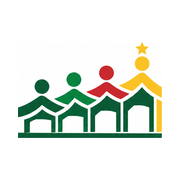
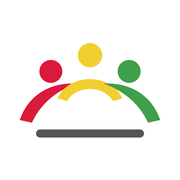
V2

Changed region(s): [[0.0833, 0.2222, 0.9167, 0.7778], [0.4167, 0.2222, 0.5833, 0.3889]]

diff --git a/tests/Feature/Publique/LogoTest.php b/tests/Feature/Publique/LogoTest.php
@@ -43,9 +43,10 @@ class LogoTest extends TestCase
 
         $accueil = $this->get('/')->assertOk();
 
+        // Pied de page sur fond foncé : version blanche du logo, sans cadre blanc.
         preg_match('/<footer.*?<\/footer>/s', $accueil->getContent(), $pied);
-        $this->assertStringContainsString($logo, $pied[0]);
-        $accueil->assertSee('srcset=', false);
+        $this->assertStringContainsString(e(ImagesPlateforme::url('logoHorizontalBlanc')), $pied[0]);
+        $this->assertStringNotContainsString('bg-white px-2 py-1.5', $pied[0]);
         $this->get('/connexion')->assertOk()->assertSee($logo, false);
         $this->assertStringContainsString('images/og-raaga.png', $accueil->getContent());
         $this->assertStringContainsString('rel="manifest"', $accueil->getContent());
@@ -72,11 +73,10 @@ class LogoTest extends TestCase
 
     public function test_les_fichiers_du_logo_sont_servis(): void
     {
-        foreach (['logoHorizontal', 'logoSymbole', 'logoSymboleSimplifie'] as $champ) {
-            $this->get(ImagesPlateforme::url($champ))->assertOk()->assertHeader('Content-Type', 'image/png');
+        // Nouveau logo (02/11/2026) : quatre SVG fournis avec le code, servis même base vide.
+        foreach (['logoHorizontal', 'logoHorizontalBlanc', 'logoSymbole', 'logoSymboleSimplifie'] as $champ) {
+            $this->get(ImagesPlateforme::url($champ))->assertOk()->assertHeader('Content-Type', 'image/svg+xml');
         }
-        // Pas de version blanche fournie : pas d'adresse, et le pied de page pose le logo sur fond blanc.
-        $this->assertNull(ImagesPlateforme::url('logoHorizontalBlanc'));
         $this->get('/plateforme/images/inconnu')->assertNotFound();
 
         $this->get(route('manifeste'))->assertOk()->assertJsonPath('name', 'Raaga · Participation populaire')
@@ -100,7 +100,10 @@ class LogoTest extends TestCase
         $apres = ImagesPlateforme::url('logoHorizontal');
         $this->assertNotSame($avant, $apres);
         $this->get($apres)->assertOk()->assertHeader('Content-Type', 'image/svg+xml');
-        $this->get('/')->assertSee(e($apres), false);
+        // Thème « lumière » (clair) : logo horizontal sur la carte de connexion.
+        $this->flushSession();
+        $this->app['auth']->forgetGuards();
+        $this->get('/connexion')->assertSee(e($apres), false);
     }
 
     public function test_aucun_symbole_unicode_ne_sert_d_icone_dans_les_pages_publiques(): void

diff --git a/app/Support/ImagesPlateforme.php b/app/Support/ImagesPlateforme.php
@@ -14,19 +14,19 @@ use Illuminate\Support\Facades\Storage;
 final class ImagesPlateforme
 {
     /**
-     * Fichiers fournis (valeur initiale). Le logo n'existe pour l'instant qu'en PNG : version 2x
-     * (et 1x pour le srcset). TODO: remplacer par les SVG vectorisés dès qu'ils sont fournis.
-     * Pas de version blanche fournie : null (le pied de page pose alors le logo sur un fond blanc).
+     * Fichiers fournis (valeur initiale). Logo Raaga en SVG (nouveau logo du 02/11/2026) : horizontal,
+     * horizontal blanc (pied de page sur fond foncé), symbole et icône (favicon). Les PNG gardent une
+     * version 2x et 1x pour le srcset.
      *
      * @var array<string, array{0: ?string, 1: ?string}> champ => [fichier 2x (ou SVG), fichier 1x]
      */
     public const DEFAUTS = [
         // Armoiries officielles du Burkina Faso, versionnées avec le code : affichées même si la base est vidée.
         'armoiries' => ['armoiries.png', null],
-        'logoHorizontal' => ['images/logo/raaga-logo-horizontal-96.png', 'images/logo/raaga-logo-horizontal-48.png'],
-        'logoHorizontalBlanc' => [null, null],
-        'logoSymbole' => ['images/logo/raaga-symbole-64.png', 'images/logo/raaga-symbole-32.png'],
-        'logoSymboleSimplifie' => ['images/logo/raaga-symbole-64.png', 'images/logo/raaga-symbole-32.png'],
+        'logoHorizontal' => ['images/logo/raaga-logo-horizontal.svg', null],
+        'logoHorizontalBlanc' => ['images/logo/raaga-logo-horizontal-blanc.svg', null],
+        'logoSymbole' => ['images/logo/raaga-symbole.svg', null],
+        'logoSymboleSimplifie' => ['images/logo/raaga-icone-favicon.svg', null],
     ];
 
     public static function existe(string $champ): bool

diff --git a/app/Console/Commands/VerifierProduction.php b/app/Console/Commands/VerifierProduction.php
@@ -86,9 +86,11 @@ class VerifierProduction extends Command
             $avertissements[] = 'Variable manquante : RAAGA_CLE_PORTIQUES (interface de vérification des cartes pour les portiques fermée : toute demande est refusée).';
         }
 
-        // Carte d'identification : armoiries et logo par défaut trop petits pour l'impression (un fichier déposé n'est pas contrôlé ici).
+        // Carte d'identification : armoiries et logo par défaut trop petits pour l'impression (un fichier déposé n'est pas contrôlé
+        // ici, un SVG non plus : vectoriel, net à toute taille).
         foreach (self::IMAGES_CARTE as $champ => $libelle) {
             $chemin = ImagesPlateforme::deposee($champ) ? null : ImagesPlateforme::chemin($champ);
+            $chemin = $chemin && str_ends_with(strtolower($chemin), '.svg') ? null : $chemin;
             $hauteur = $chemin && is_file($chemin) ? (getimagesize($chemin)[1] ?? 0) : null;
             if ($hauteur !== null && $hauteur < self::HAUTEUR_IMPRESSION) {
                 $avertissements[] = ucfirst($libelle).' par défaut en basse résolution ('.$hauteur.' px de haut, '.self::HAUTEUR_IMPRESSION.' attendus pour l’impression de la carte), déposer la version officielle dans « Paramètres de la plateforme », section Identité.';

diff --git a/tests/Feature/VerrousProductionTest.php b/tests/Feature/VerrousProductionTest.php
@@ -122,11 +122,10 @@ class VerrousProductionTest extends TestCase
         config(['raaga.demo' => false, ...self::COMPTES]);
         $this->operateurReel();
 
-        // Rien de déposé : armoiries fournies (998 px de haut) acceptées, logo fourni (96 px) signalé.
+        // Rien de déposé : armoiries fournies (998 px de haut) et logo fourni en SVG (vectoriel, depuis le 02/11/2026) acceptés.
         $this->artisan('raaga:verifier-production')->assertSuccessful()
-            ->expectsOutputToContain('AVERTISSEMENT : Logo par défaut en basse résolution (96 px de haut, 600 attendus')
-            ->doesntExpectOutputToContain('Armoiries par défaut en basse résolution')
-            ->expectsOutputToContain('Aucun point bloquant (1 avertissement(s)');
+            ->doesntExpectOutputToContain('Logo par défaut en basse résolution')
+            ->doesntExpectOutputToContain('Armoiries par défaut en basse résolution');
 
         // Logo déposé : plus d'avertissement, même trop petit (seuls les fichiers par défaut sont contrôlés ici).
         $this->deposerLogo(120);

diff --git a/tests/Support/ReglagesCarteComplets.php b/tests/Support/ReglagesCarteComplets.php
@@ -39,7 +39,7 @@ trait ReglagesCarteComplets
             'cachetAutorite' => 'plateforme/cachet-autorite-test.png',
         ];
         $disque->put($chemins['armoiries'], (string) file_get_contents(public_path('armoiries.png')));
-        $disque->put($chemins['logoHorizontal'], (string) file_get_contents(public_path($logo === 'horizontal' ? 'images/logo/raaga-logo-horizontal-96.png' : 'images/logo/raaga-symbole-64.png')));
+        $disque->put($chemins['logoHorizontal'], (string) file_get_contents(public_path($logo === 'horizontal' ? 'images/logo/raaga-logo-horizontal-email.png' : 'images/logo/icone-192.png')));
         $disque->put($chemins['signatureAutorite'], $this->pngTest(900, 300, [20, 40, 120]));
         $disque->put($chemins['cachetAutorite'], $this->pngTest(700, 700, [30, 60, 160]));
         if ($filigranes) {
